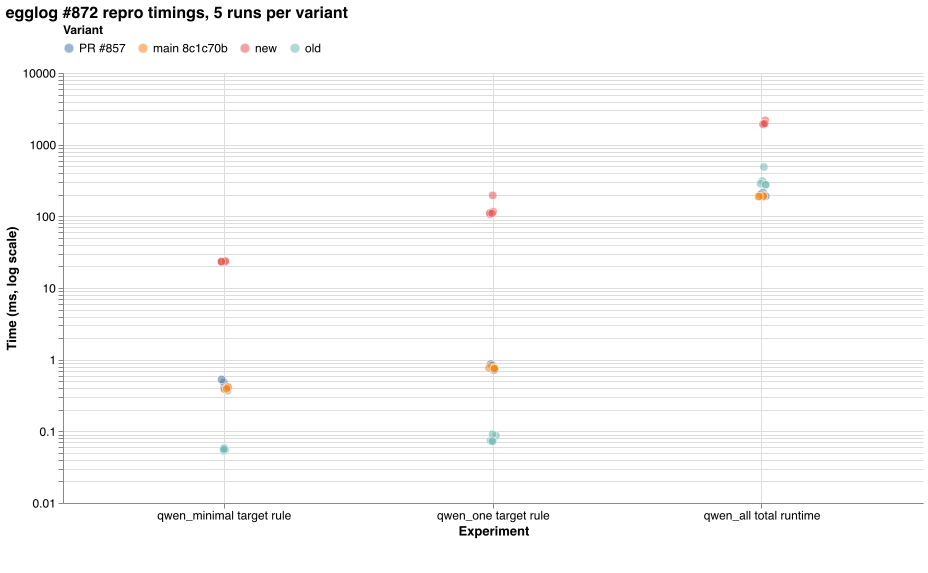
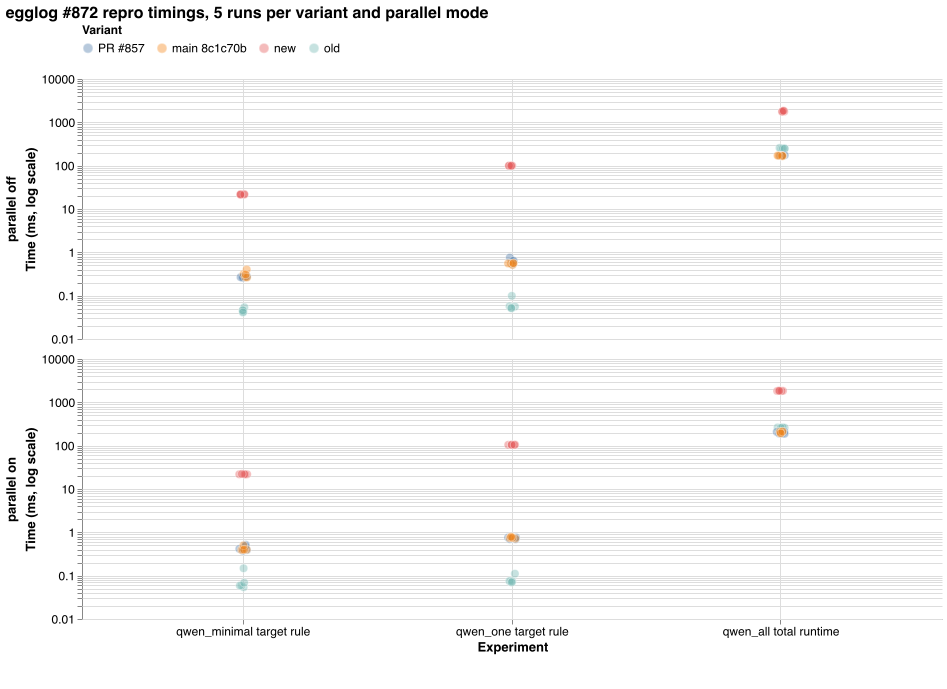
Facet timings by Rayon parallelism

Changed region(s): [[0.0, 0.0, 1.0, 0.9494]]

diff --git a/README.md b/README.md
@@ -93,7 +93,10 @@ To regenerate the five-run timing scatter plot:
 scripts/render_timing_scatter.sh
 ```
 
-This reads `scripts/timings_scatter.vl.json` and writes:
+This runs each benchmark both with Rayon parallelism disabled
+(`RAYON_NUM_THREADS=1`, labeled `parallel off`) and with the default Rayon
+thread pool (`parallel on`). It reads `scripts/timings_scatter.vl.json` and
+writes:
 
 - `results/timings_scatter.csv`
 - `results/timings_scatter.png`